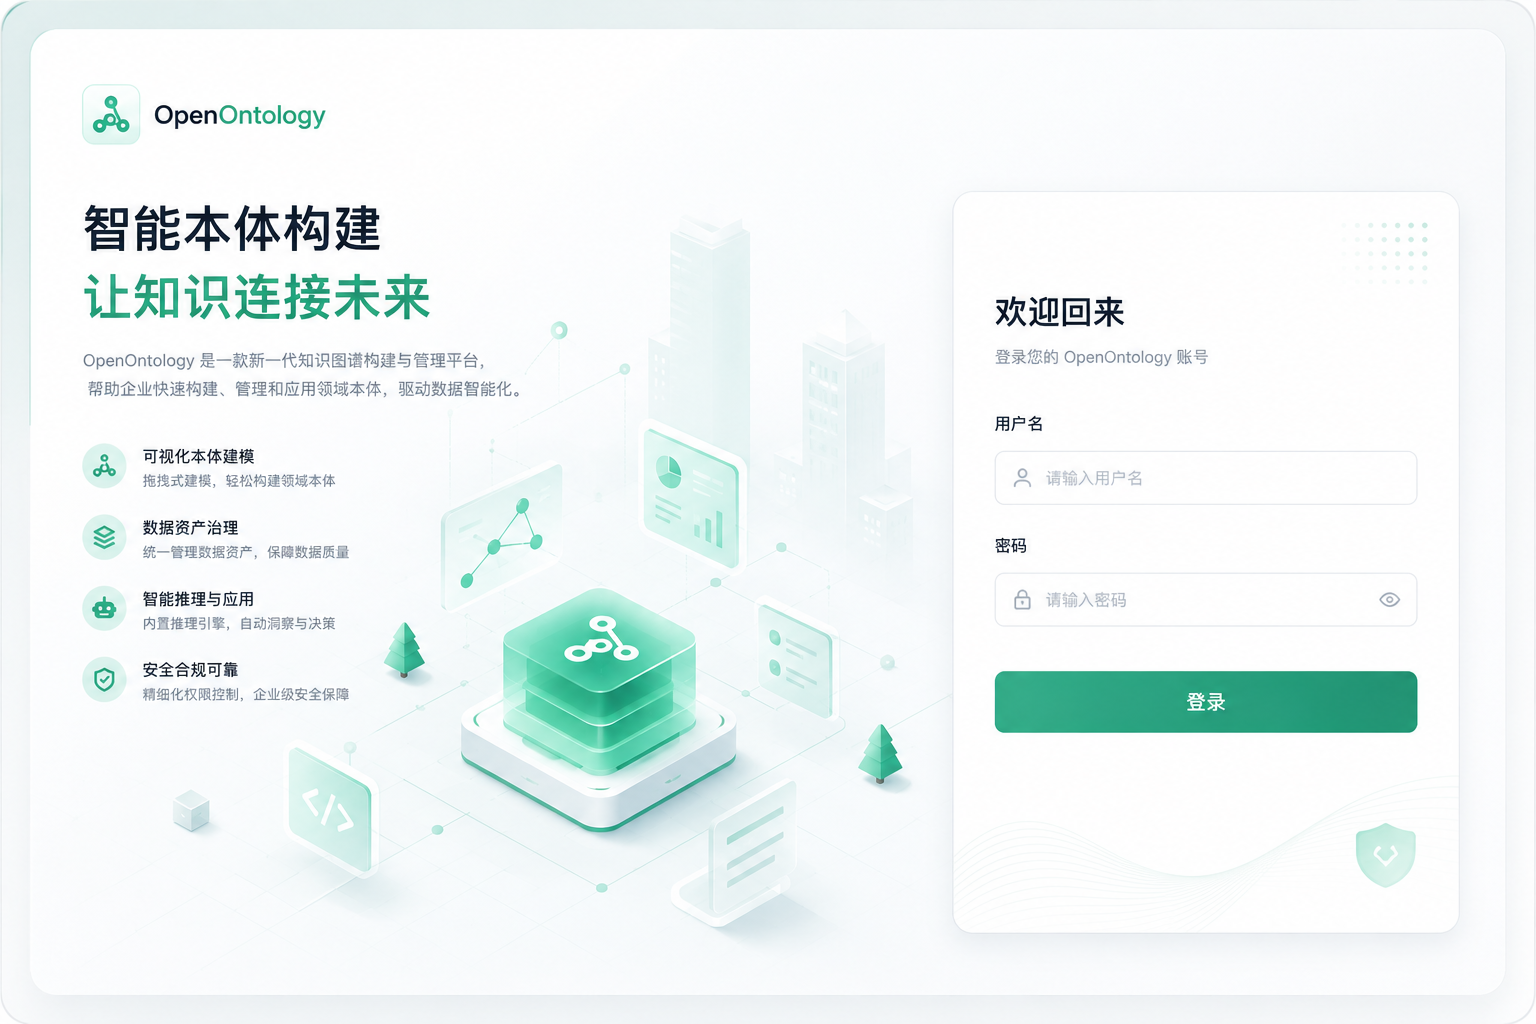
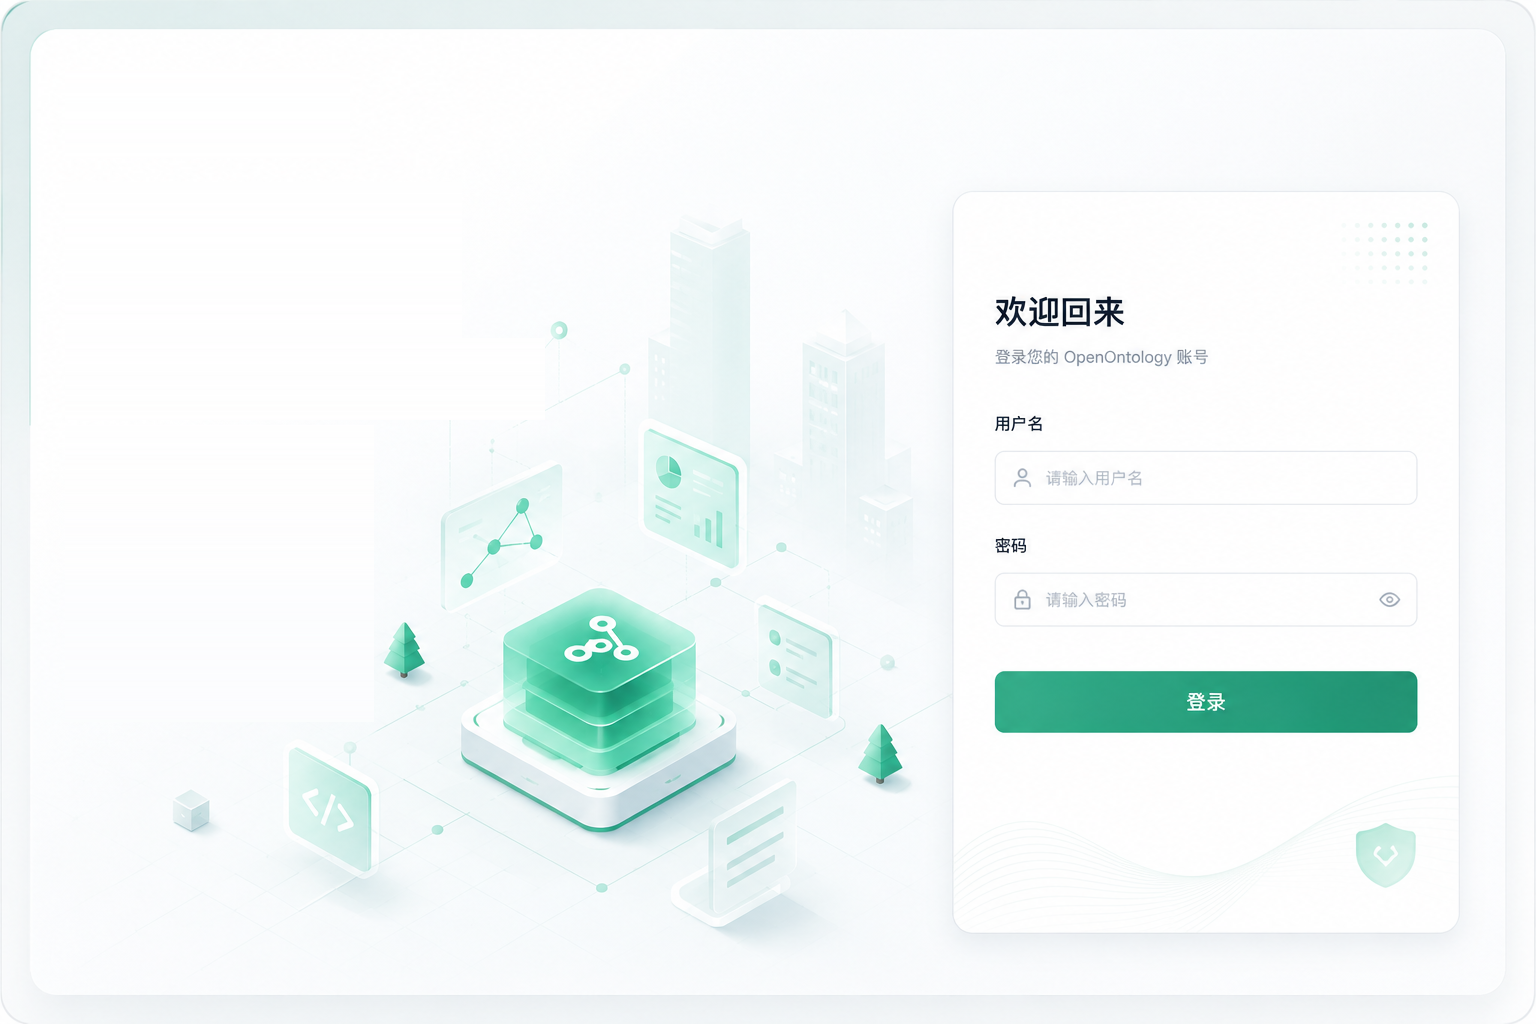
fix(login): 根治登录页底图文字残影
底图 login-reference.png 烘焙了旧版设计的完整文字，object-fit: cover
在非 3:2 视口下垂直裁切使烘焙文字上移，从三块按像素手调的白色渐变
补丁淡出带漏出（宽屏出现"建"字残影、左上角绿块、旧特性文案等）。

根治方式：抹除底图左列全部烘焙文字（逐行采样背景填充，装饰元素与
插画保留，可见区内零文字残留），删除三块补丁 hack，改为按视口百分
比绘制的文字列可读性底纱，任意宽高比下不再依赖手调像素。

验证：2000×1040（原始复现视口）、2560×1080、1000×800、1512×1008、
深色模式、768×960 堆叠布局共 6 组截图自测无残影；逐像素边界比对
接缝 ≤4/255。

diff --git a/frontend/src/pages/login/login.css b/frontend/src/pages/login/login.css
@@ -56,6 +56,17 @@
   user-select: none;
 }
 
+/* 文字列可读性底纱：按视口百分比绘制，任意宽高比下都盖住文案底下的插画区
+   （底图已去文字化，不再允许按像素手调的遮盖补丁） */
+.ontology-login__canvas::before {
+  position: absolute;
+  z-index: 1;
+  inset: 0;
+  content: "";
+  background: linear-gradient(90deg, rgba(255, 255, 255, 0.95) 0%, rgba(255, 255, 255, 0.85) 22%, rgba(255, 255, 255, 0) 36%);
+  pointer-events: none;
+}
+
 .ontology-login__brand {
   position: absolute;
   z-index: 2;
@@ -64,21 +75,6 @@
   display: flex;
   align-items: center;
   gap: 14px;
-  isolation: isolate;
-}
-
-.ontology-login__brand::before {
-  position: absolute;
-  z-index: 0;
-  inset: -44px -100px -22px -30px;
-  content: "";
-  background: linear-gradient(90deg, #fff 0 92%, rgba(255, 255, 255, 0));
-  pointer-events: none;
-}
-
-.ontology-login__brand > * {
-  position: relative;
-  z-index: 1;
 }
 
 .ontology-login__brand-mark {
@@ -111,21 +107,6 @@
   top: 17.65%;
   left: 3.5%;
   width: 33.5%;
-  isolation: isolate;
-}
-
-.ontology-login__story::before {
-  position: absolute;
-  z-index: 0;
-  inset: -35px -70px -25px -20px;
-  content: "";
-  background: linear-gradient(90deg, #fff 0 88%, rgba(255, 255, 255, 0));
-  pointer-events: none;
-}
-
-.ontology-login__story > * {
-  position: relative;
-  z-index: 1;
 }
 
 .ontology-login__story h1 {
@@ -167,21 +148,9 @@
   margin: 0;
   padding: 0;
   list-style: none;
-  isolation: isolate;
-}
-
-.ontology-login__features::before {
-  position: absolute;
-  z-index: 0;
-  inset: -20px -150px -60px -20px;
-  content: "";
-  background: linear-gradient(90deg, #fff 0 72%, rgba(255, 255, 255, 0));
-  pointer-events: none;
 }
 
 .ontology-login__features li {
-  position: relative;
-  z-index: 1;
   display: flex;
   align-items: center;
   gap: 16px;
@@ -563,16 +532,8 @@
   opacity: 0.35;
 }
 
-.dark .ontology-login__brand::before {
-  background: linear-gradient(90deg, #11161e 0 92%, rgba(17, 22, 30, 0));
-}
-
-.dark .ontology-login__story::before {
-  background: linear-gradient(90deg, #11161e 0 88%, rgba(17, 22, 30, 0));
-}
-
-.dark .ontology-login__features::before {
-  background: linear-gradient(90deg, #11161e 0 72%, rgba(17, 22, 30, 0));
+.dark .ontology-login__canvas::before {
+  background: linear-gradient(90deg, rgba(17, 22, 30, 0.92) 0%, rgba(17, 22, 30, 0.8) 22%, rgba(17, 22, 30, 0) 36%);
 }
 
 .dark .ontology-login__brand-mark {
